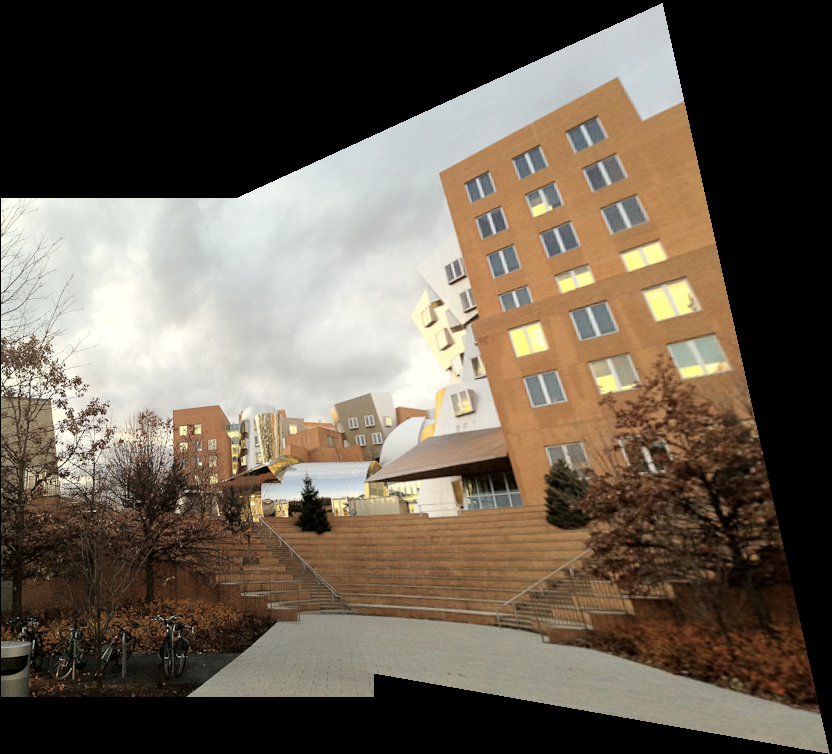
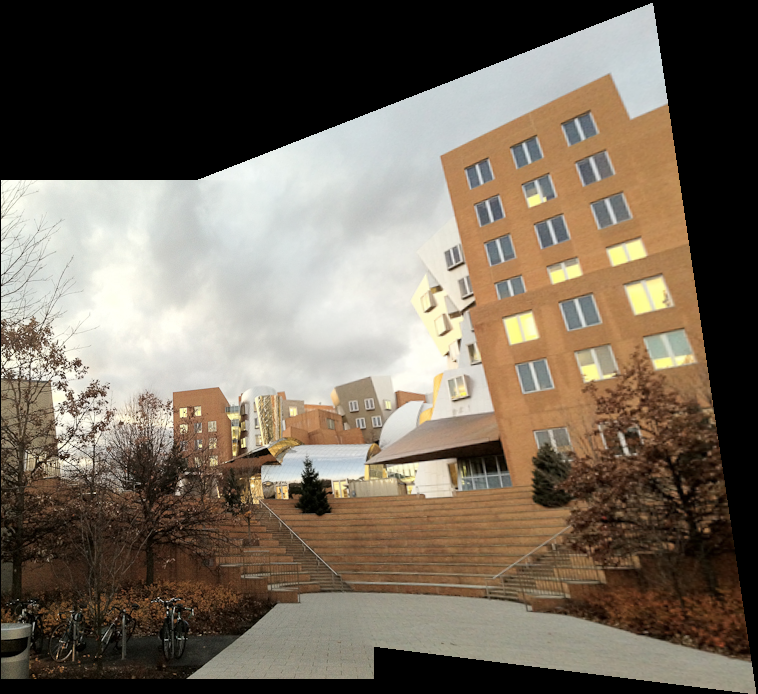
Run some tests

diff --git a/a7_test.py b/a7_test.py
@@ -50,10 +50,8 @@ def test_autostitch():
   im1=io.imread('pano/stata-1.png', 1.0)
   im2=io.imread('pano/stata-2.png', 1.0)
   im_list=[im1, im2]
-  out1=a7.autostitch(im_list, 0)
-  out2=a7.autostitch(im_list, 1)
-  io.imwrite(out1, 'panorama1-1.png', 1.0)
-  io.imwrite(out2, 'panorama1-2.png', 1.0)
+  out=a7.autostitch(im_list, 0)
+  io.imwrite(out, 'panorama1.png', 1.0)
 
 def test_autostitch2():
   im1=io.imread('pano/guedelon-1.png', 1.0)
@@ -93,9 +91,19 @@ def test_two_scale_blending2():
   im3=io.imread('pano/guedelon-3.png', 1.0)
   im4=io.imread('pano/guedelon-4.png', 1.0)
   im_list=[im1, im2, im3, im4]
-  out=a7.two_scale_blending(im_list, 1)
-  io.imwrite(out, 'two_scale_blending2.png', 1.0)
+  out1=a7.two_scale_blending(im_list, 0)
+  io.imwrite(out1, 'two_scale_blending2-1.png', 1.0)
+  out2=a7.two_scale_blending(im_list, 1)
+  io.imwrite(out2, 'two_scale_blending2-2.png', 1.0)
 
+def test_myPano():
+  im1 = io.imread('pano/house1.png', 1.0)
+  im2 = io.imread('pano/house2.png', 1.0)
+  im3 = io.imread('pano/house3.png', 1.0)
+  im_list = [im1, im2, im3]
+  # io.imwrite(a7.autostitch(im_list, 1), 'auto_stitch_house.png', 1.0)
+  # io.imwrite(a7.linear_blending(im_list, 1), 'linear_blending_house.png', 1.0)
+  io.imwrite(a7.two_scale_blending(im_list, 1), 'two_scale_blending_house.png', 1.0)
 
 
 # Helpers for visualization
@@ -167,17 +175,18 @@ def _magic123(im):
 
 #===Tests=====
 
-test_ComputeTensor()
-test_cornerResponse()
-test_HarrisCorners()
-test_computeFeatures()
-test_findCorrespondence()
-test_RANSAC()
-test_autostitch()
-test_autostitch2()
-test_linear_blending()
-test_linear_blending2()
-test_two_scale_blending()
-test_two_scale_blending2()
+# test_ComputeTensor()
+# test_cornerResponse()
+# test_HarrisCorners()
+# test_computeFeatures()
+# test_findCorrespondence()
+# test_RANSAC()
+# test_autostitch()
+# test_autostitch2()
+# test_linear_blending()
+# test_linear_blending2()
+# test_two_scale_blending()
+# test_two_scale_blending2()
+test_myPano()
 
 

diff --git a/a7.py b/a7.py
@@ -31,8 +31,8 @@ def BW(im, weights=[0.3,0.6,0.1]):
 
 def imIter(im):
   for y in range(0,im.shape[0]):
-      for x in range(0,im.shape[1]):
-          yield (y,x)
+    for x in range(0,im.shape[1]):
+      yield (y,x)
 
 ### END HELPERS
 
@@ -143,13 +143,13 @@ def computeNHomographies(L, refIndex, blurDescriptor=0.5, radiusDescriptor=4):
   homographies = [np.zeros((3,3))] * N
   homographies[refIndex] = np.identity(3)
   for i in xrange(N):
-      if i < refIndex:
-          homographies[i] = reduce(lambda x, y: x.dot(y), H_i[i:refIndex], np.identity(3))
-      elif i > refIndex:
-          if refIndex == 0:
-              homographies[i] = reduce(lambda x, y: x.dot(linalg.inv(y)), H_i[i-1::-1], np.identity(3))
-          else:
-              homographies[i] = reduce(lambda x, y: x.dot(linalg.inv(y)), H_i[i-1:refIndex-1:-1], np.identity(3))
+    if i < refIndex:
+      homographies[i] = reduce(lambda x, y: x.dot(y), H_i[i:refIndex], np.identity(3))
+    elif i > refIndex:
+      if refIndex == 0:
+          homographies[i] = reduce(lambda x, y: x.dot(linalg.inv(y)), H_i[i-1::-1], np.identity(3))
+      else:
+          homographies[i] = reduce(lambda x, y: x.dot(linalg.inv(y)), H_i[i-1:refIndex-1:-1], np.identity(3))
   return homographies
 
 def autostitch(L, refIndex, blurDescriptor=0.5, radiusDescriptor=4):
